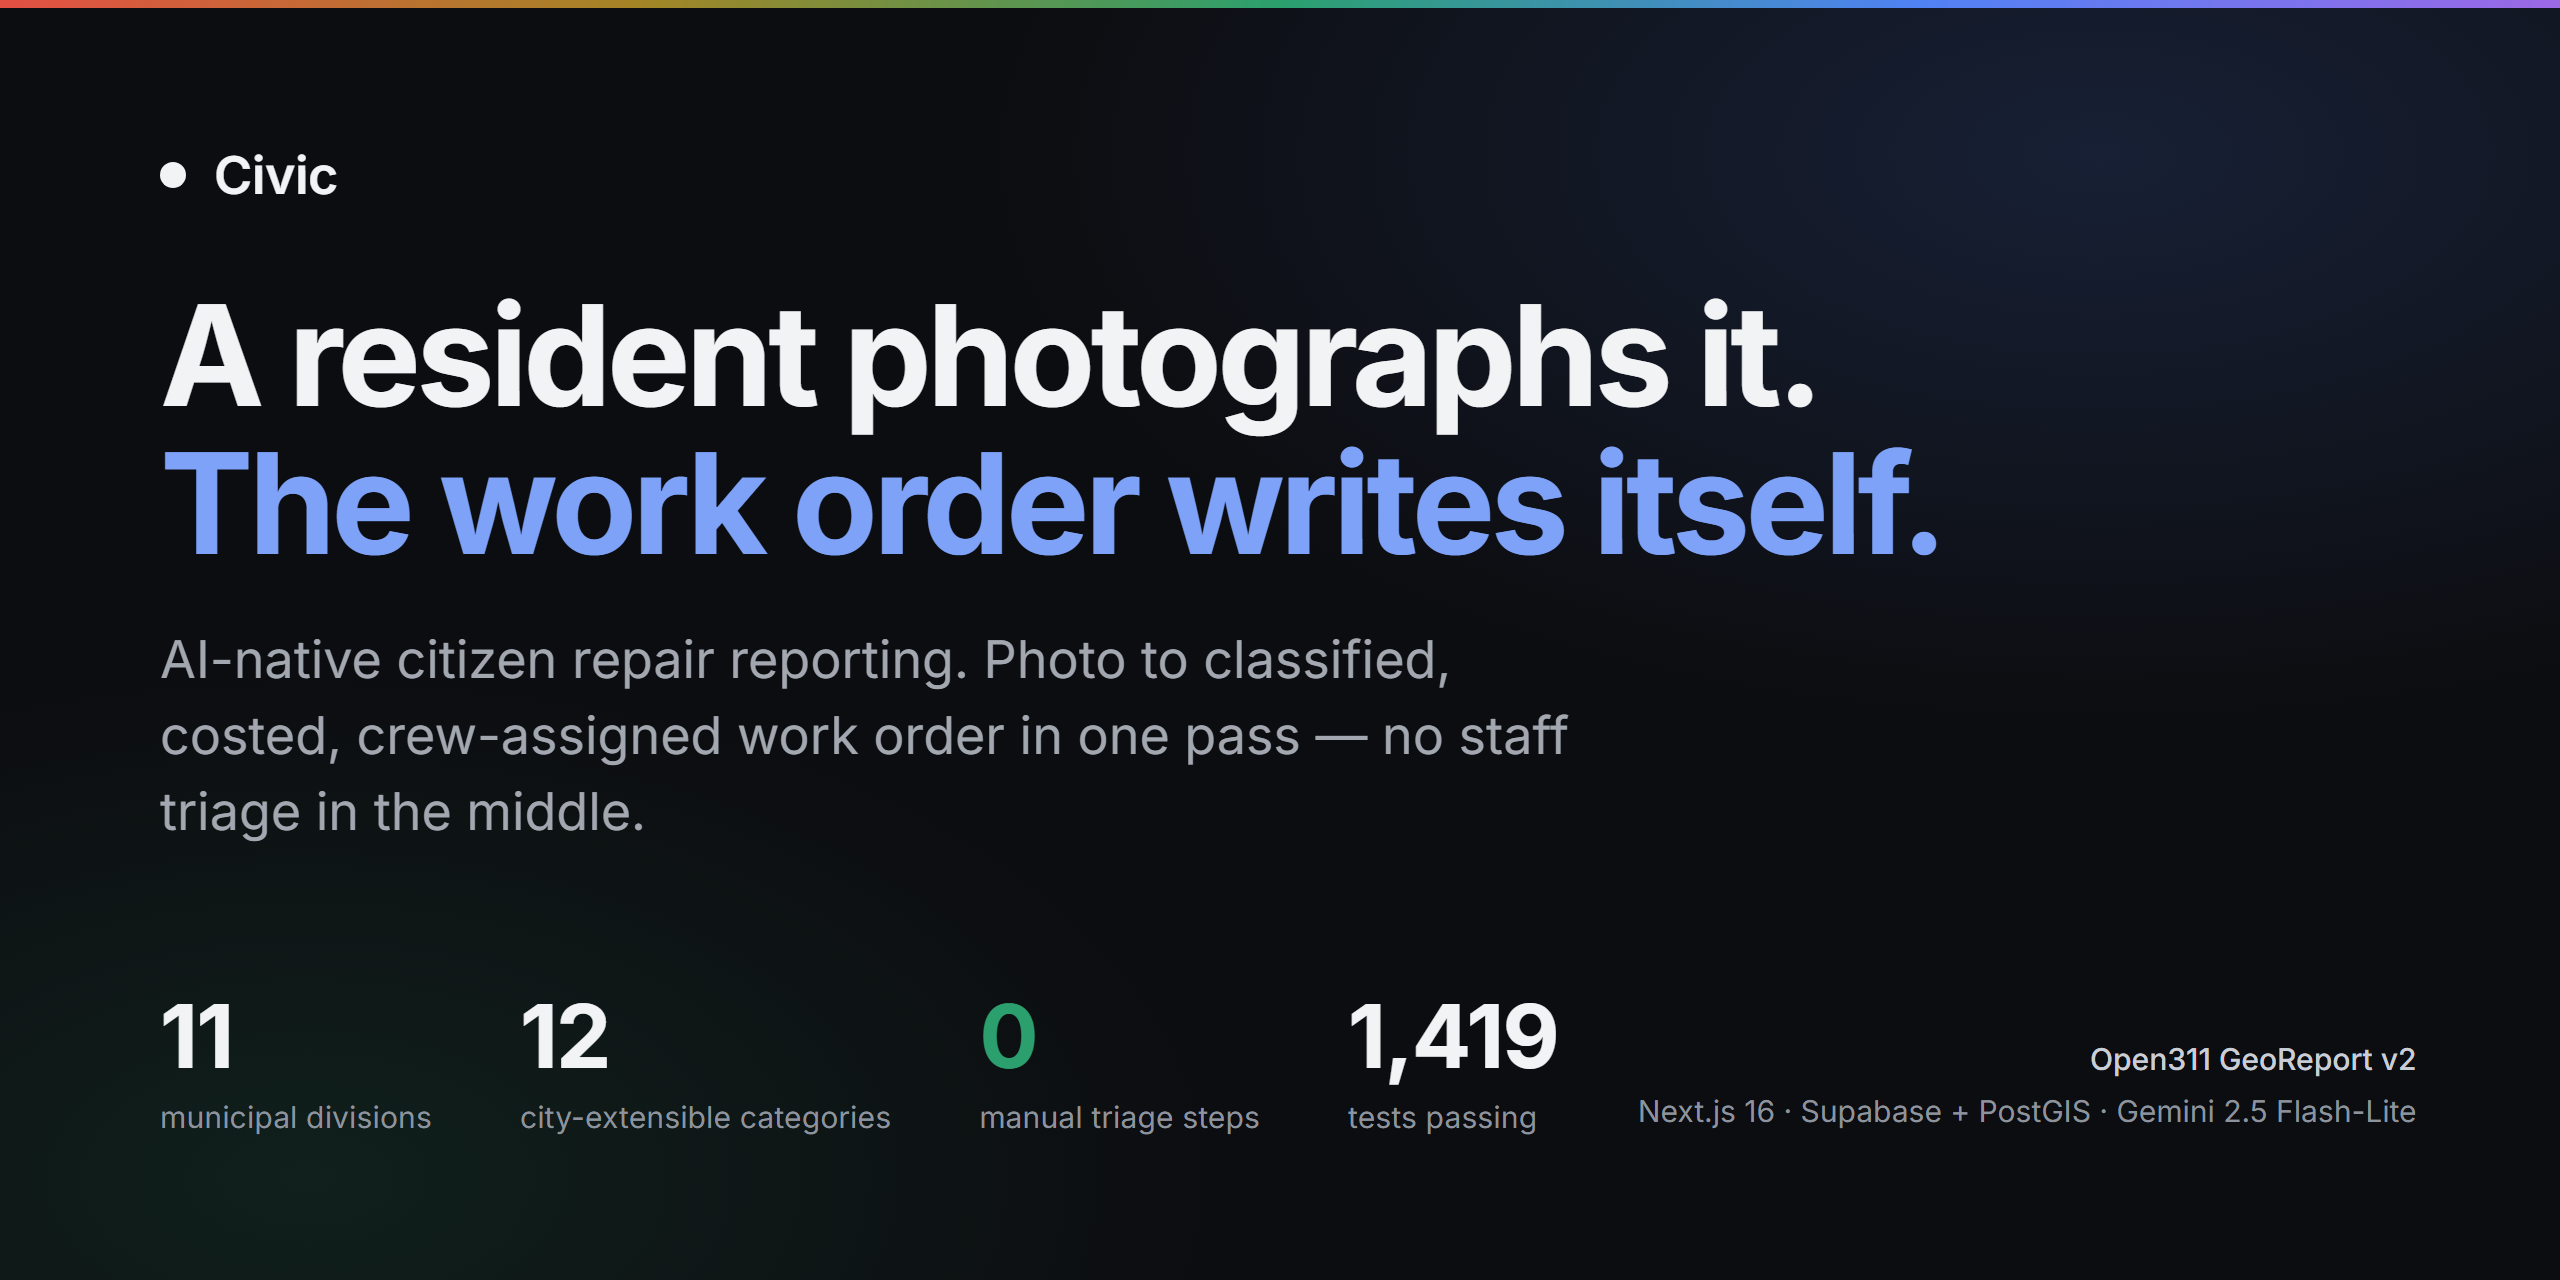
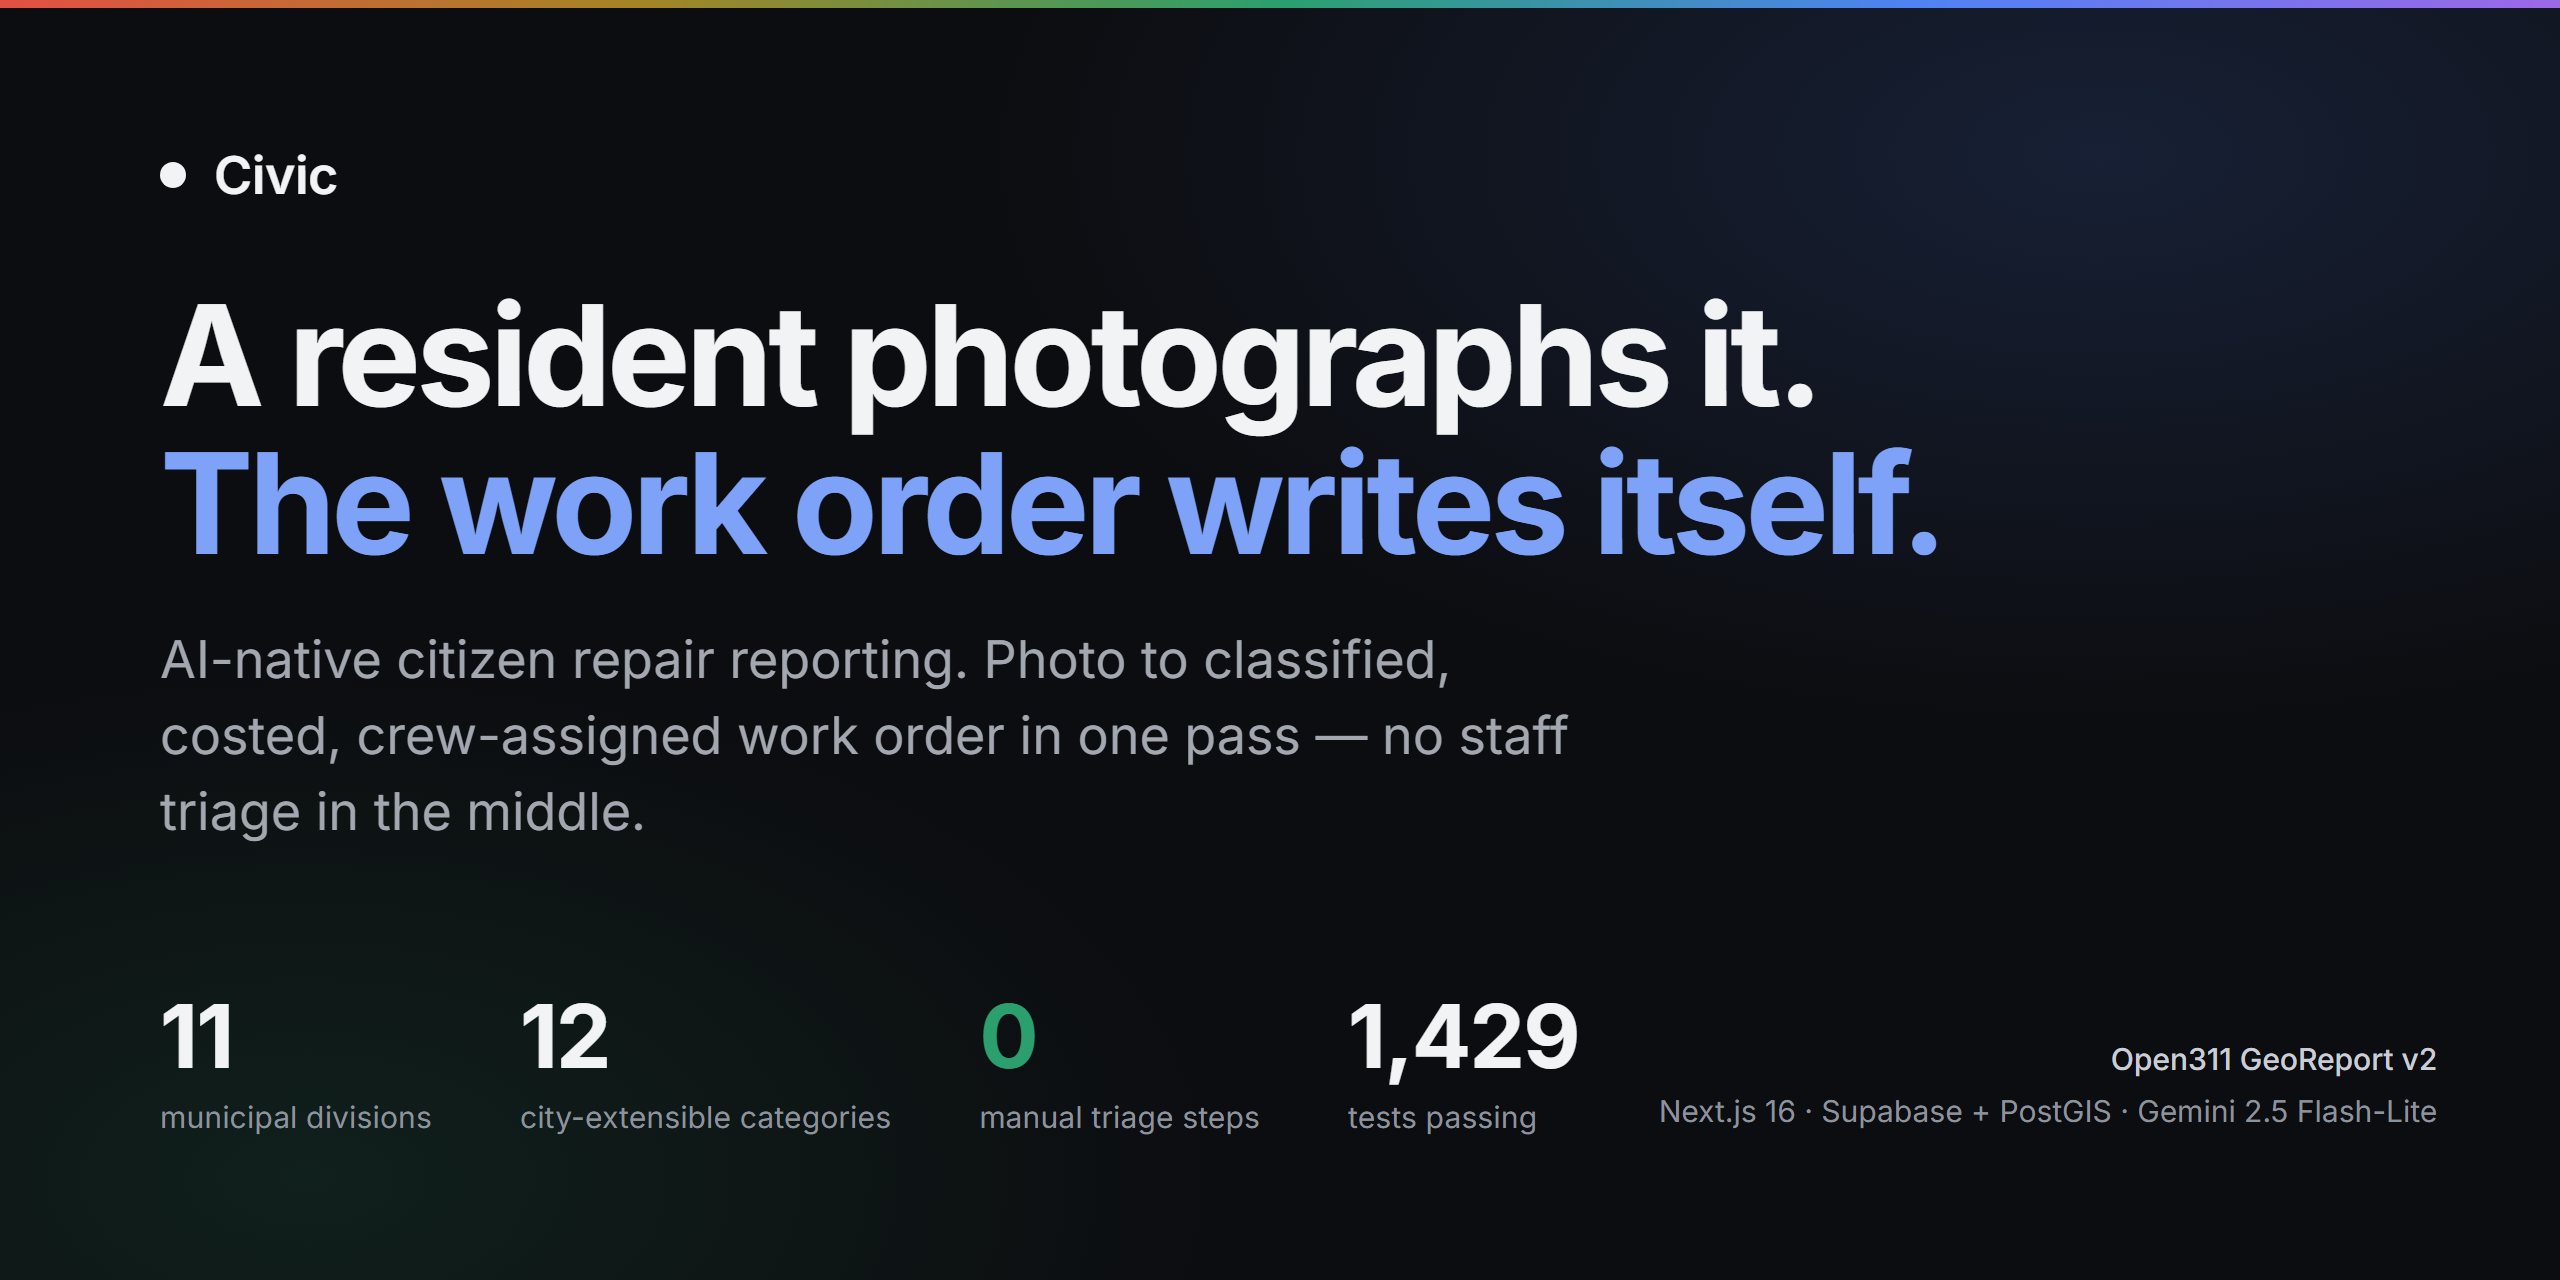
docs: sync the test count everywhere it is quoted
The Open311 POST suite took the count from 1,419 across 136 files to 1,429
across 137. The README quoted the old number in four places, SUBMISSION.md in
two, and it was rendered into the social-preview card.

A README that stakes its argument on "every number here was produced by running
the command in the middle column" cannot carry a stale number in its own badge.
Card regenerated.

One instance is left as prose rather than a figure: the bug-class writeup says
a passing build and "1,400-odd" tests did not tell us the product worked. That
sentence is about the state of the world when the defect was live, so pinning
it to today's exact count would make it quietly wrong every time a test is
added.

Changed region(s): [[0.625, 0.8125, 0.9688, 0.875], [0.5625, 0.7812, 0.625, 0.8438]]

diff --git a/README.md b/README.md
@@ -1,6 +1,6 @@
 <div align="center">
 
-<img src="docs/images/social-preview.png" alt="Civic. A resident photographs it, the work order writes itself. AI-native citizen repair reporting: photo to classified, costed, crew-assigned work order in one pass, no staff triage in the middle. 11 municipal divisions, 12 city-extensible categories, 0 manual triage steps, 1,419 tests passing." width="880">
+<img src="docs/images/social-preview.png" alt="Civic. A resident photographs it, the work order writes itself. AI-native citizen repair reporting: photo to classified, costed, crew-assigned work order in one pass, no staff triage in the middle. 11 municipal divisions, 12 city-extensible categories, 0 manual triage steps, 1,429 tests passing." width="880">
 
 ### The gap between a resident noticing a pothole and a crew being dispatched to it
 
@@ -8,7 +8,7 @@
 [![TypeScript strict](https://img.shields.io/badge/TypeScript-strict-3178C6?logo=typescript&logoColor=white)](https://www.typescriptlang.org)
 [![Supabase + PostGIS](https://img.shields.io/badge/Supabase-PostGIS-3ECF8E?logo=supabase&logoColor=white)](https://supabase.com)
 [![Gemini 2.5 Flash-Lite](https://img.shields.io/badge/Gemini-2.5%20Flash--Lite-4285F4?logo=google&logoColor=white)](https://ai.google.dev)
-[![1419 tests](https://img.shields.io/badge/tests-1%2C419%20passing-success)](#4-proof-it-works)
+[![1429 tests](https://img.shields.io/badge/tests-1%2C429%20passing-success)](#4-proof-it-works)
 [![Open311](https://img.shields.io/badge/Open311-GeoReport%20v2-orange)](#open311-is-the-product-not-an-integration)
 [![CI](https://github.com/ssamba1/civic/actions/workflows/test.yml/badge.svg)](https://github.com/ssamba1/civic/actions/workflows/test.yml)
 [![migrations](https://github.com/ssamba1/civic/actions/workflows/migrations.yml/badge.svg)](https://github.com/ssamba1/civic/actions/workflows/migrations.yml)
@@ -448,7 +448,7 @@ Every number here was produced by running the command in the middle column on th
 | Check | Command | Result |
 |---|---|---|
 | Types | `pnpm typecheck` | **clean**, TypeScript strict |
-| Unit tests | `pnpm test` | **1,419 passing** across 136 files |
+| Unit tests | `pnpm test` | **1,429 passing** across 137 files |
 | Lint | `pnpm lint` | **0 errors** |
 | Production build | `pnpm build` | **96 routes compile**, 42 prerendered |
 | Production *runtime* | `pnpm prod` | Standalone server boots, `database: true, ai: true`, every route clean in a real browser |
@@ -511,7 +511,7 @@ Three more of the same shape were fatal only in the sense that they were wrong r
 
 **What we take from it.** Every one of these failed **silently**: a 200 with no data, a saved report with no job, an email with a hole in it, a build that warned rather than failed. None of them threw where anyone was looking.
 
-A passing build and 1,419 passing tests tell you the code agrees with itself. They do not tell you the product works. A browser hitting a page and a person reading a screenshot each caught in one look what every automated check missed.
+A passing build and 1,400-odd passing tests tell you the code agrees with itself. They do not tell you the product works. A browser hitting a page and a person reading a screenshot each caught in one look what every automated check missed.
 
 The fix was not twenty patches, it was three accessors — `ruleFor()`, `categoryMeta()`, `categorySlaHours()` — each falling back to `other` for a key its table has never seen, and 22 call sites moved onto them. Call sites that iterate `CATEGORIES` rather than indexing by a runtime key were deliberately left alone: they cannot miss.
 

diff --git a/SUBMISSION.md b/SUBMISSION.md
@@ -68,7 +68,7 @@ product.
 | Maps | MapLibre GL + deck.gl (no Mapbox token, no per-view billing) |
 | UI | Tailwind CSS v4, shadcn/ui (Radix), AG Grid for the work-order table, GSAP |
 | Interop | Open311 GeoReport v2, XML + JSON |
-| Quality | Vitest (1,419 tests), Playwright, SQL row-level-security suites, Biome, Sentry |
+| Quality | Vitest (1,429 tests), Playwright, SQL row-level-security suites, Biome, Sentry |
 
 Server components are not a style preference here — they are what keeps the
 model API key server-side by construction. `"use client"` is the exception, and
@@ -91,7 +91,7 @@ works.** We shipped a bug class where lookup tables written as
 `custom_` category. The worst instance: a report was saved, then the work-order
 lookup threw on `undefined`, *after* the classification had been persisted — so
 the report existed, no job was ever created, nothing was dispatched, and the
-resident saw a thank-you screen. Type-check, lint, 1,419 tests and the
+resident saw a thank-you screen. Type-check, lint, the whole unit suite and the
 production build were all green the entire time. It was found by opening the
 app and reading a screenshot. The fix was three accessors with an `other`
 fallback, not twenty patches.
